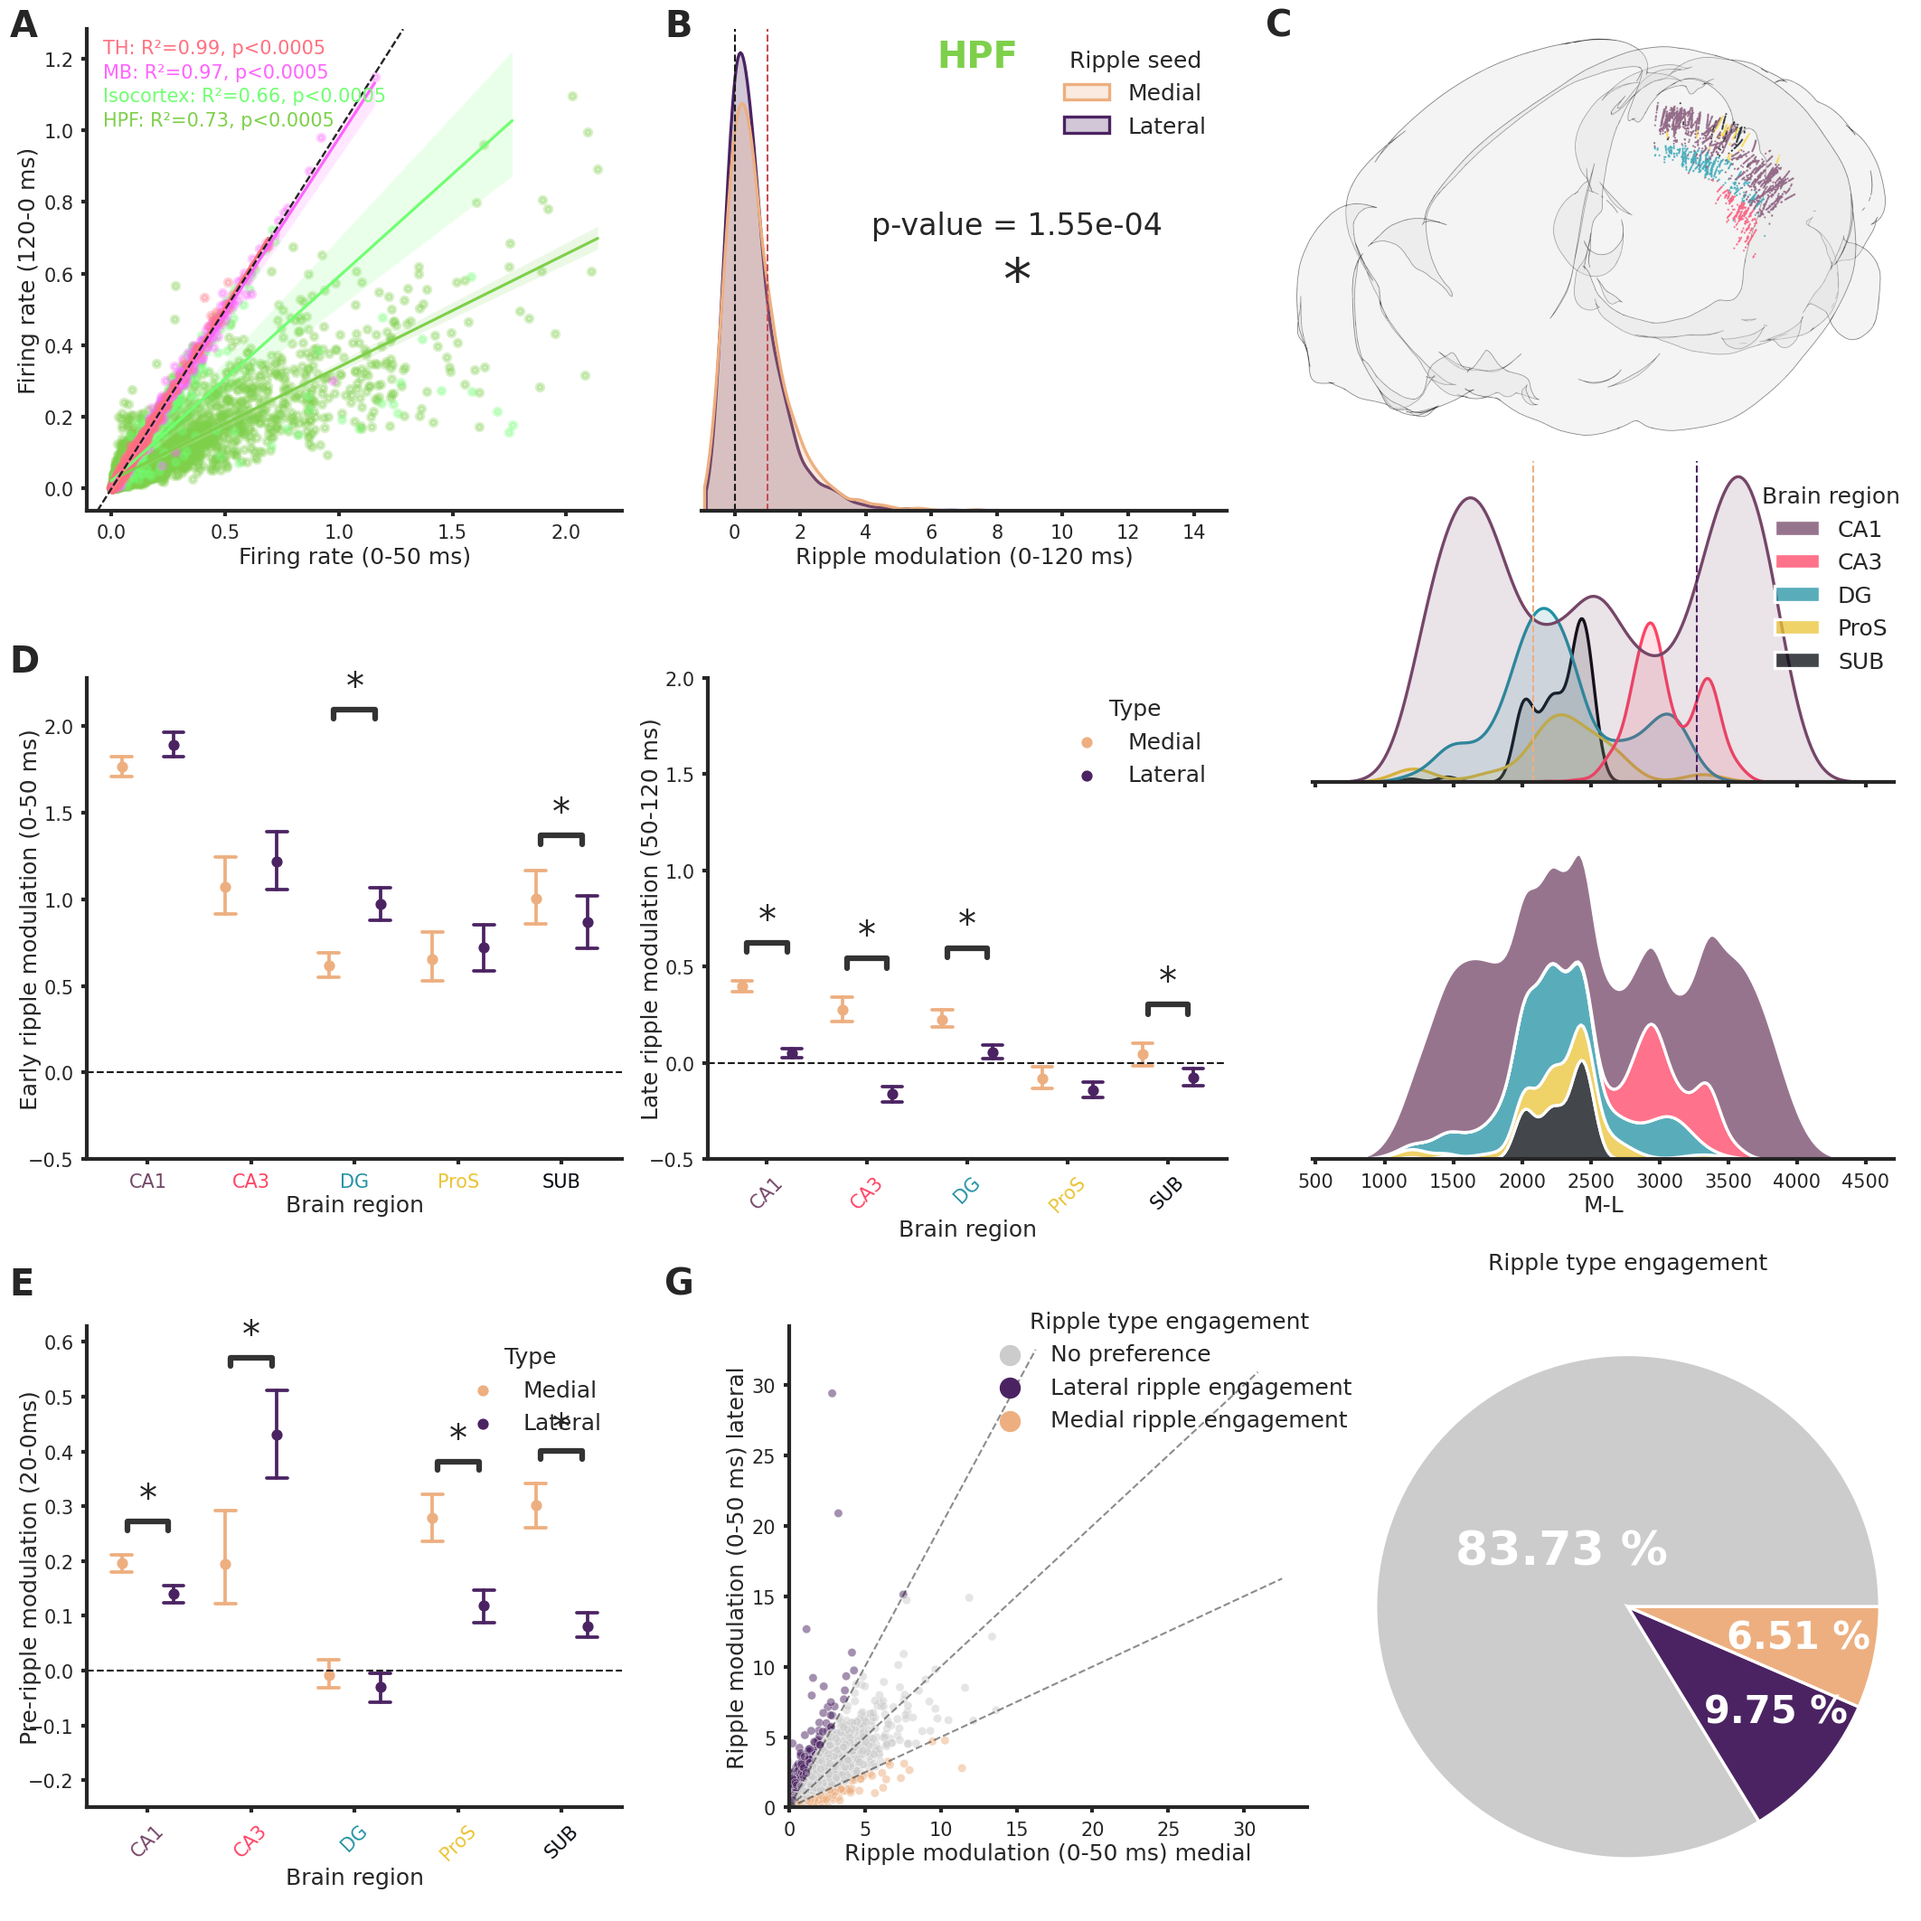
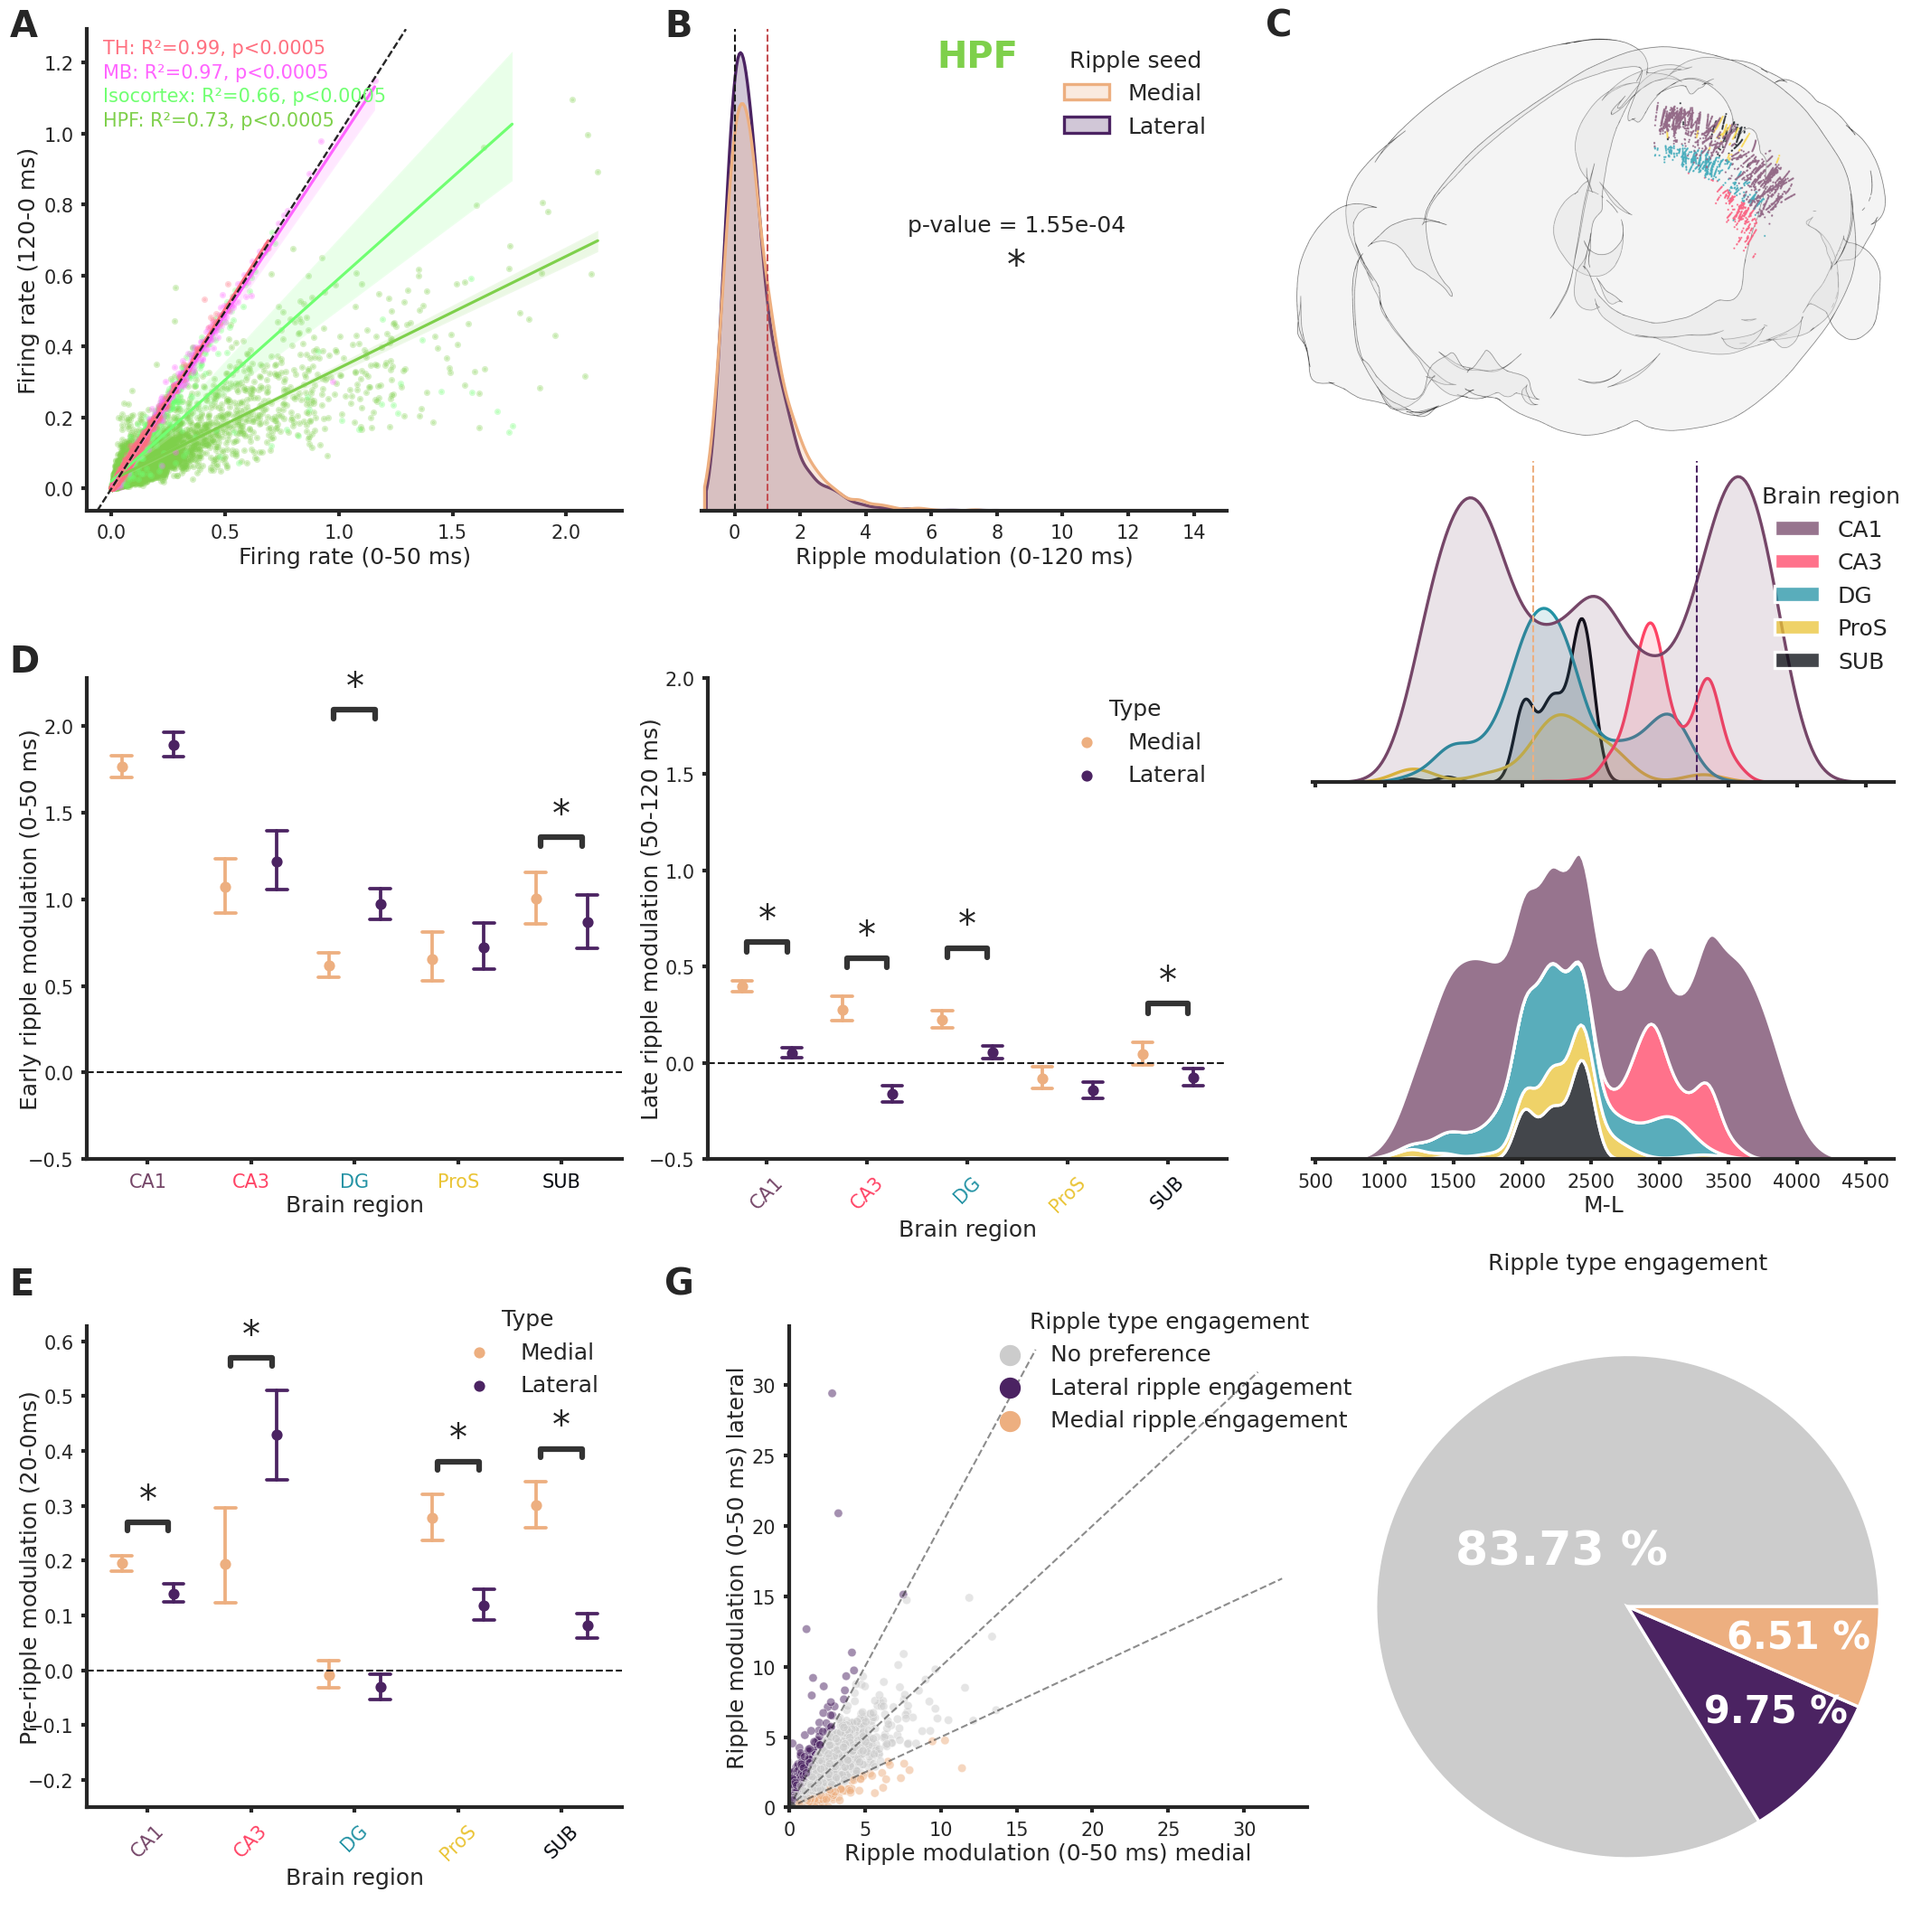
update supplementary figure units, add waveform

diff --git a/Figures/Supplementary/Supplementary_Figure_units_per_hippocampal_section.py b/Figures/Supplementary/Supplementary_Figure_units_per_hippocampal_section.py
@@ -1,13 +1,19 @@
 from Utils.Settings import output_folder_calculations, output_folder_supplementary, var_thr, waveform_PT_ratio_thr, waveform_dur_thr , isi_violations_thr, amplitude_cutoff_thr, presence_ratio_thr, Adapt_for_Nature_style
 from Utils.Utils import Naturize
 import dill
+import pandas as pd
+import numpy as np
 import pingouin as pg
 from scipy.stats import ks_2samp
 import matplotlib.pyplot as plt
 import seaborn as sns
 from Utils.Style import palette_ML
-import pylustrator
 import Utils.Style
+
+
+with open(f'{output_folder_calculations}/HPF_waveforms.pkl', 'rb') as f:
+    exc_lat, exc_med, inh_lat, inh_med, time = dill.load(f)
+
 
 with open(f'{output_folder_calculations}/clusters_features_per_section.pkl', 'rb') as f:
     total_clusters = dill.load(f)
@@ -57,97 +63,107 @@ def plot_distributions(total_units, ax0, ax1, param, legend):
         ax0.get_legend().remove()
         ax1.get_legend().remove()
 
-#pylustrator.start()
 
-fig, ax = plt.subplots(6, 4, figsize=(10,10))
+
+fig, ax = plt.subplots(8, 4, figsize=(10,10))
+
+ax1 = plt.subplot2grid((8, 4), (0, 0), colspan=2, rowspan=2)
+
+ax2 = plt.subplot2grid((8, 4), (0, 2), colspan=2, rowspan=2)
+
+pd.DataFrame(np.vstack(exc_lat), columns=time*1000).mean().plot( color=palette_ML["Lateral"], ax=ax2)
+pd.DataFrame(np.vstack(exc_med), columns=time*1000).mean().plot( color=palette_ML["Medial"], ax=ax2)
+
+pd.DataFrame(np.vstack(inh_lat), columns=time*1000).mean().plot( color=palette_ML["Lateral"], ax=ax1)
+pd.DataFrame(np.vstack(inh_med), columns=time*1000).mean().plot( color=palette_ML["Medial"], ax=ax1)
+
+ax1.set_xlabel("Time (ms)")
+ax2.set_xlabel("Time (ms)")
+
+ax1.set_xlabel("Time (ms)")
+ax2.set_xlabel("Time (ms)")
+
+ax1.set_title("Putative inhibitory")
+ax2.set_title("Putative excitatory")
+
+ax1.text(-0.1, 1.15, "A", transform=ax1.transAxes,
+      fontsize=16, fontweight='bold', va='top', ha='right')
+
+ax2.text(-0.1, 1.15, "B", transform=ax2.transAxes,
+      fontsize=16, fontweight='bold', va='top', ha='right')
+
 param="Waveform duration"
-ax0 = ax[0,0]
-ax1 = ax[0,1]
+ax0 = ax[2,0]
+ax1 = ax[2,1]
 legend = True
 plot_distributions(total_units[total_units["Waveform duration"]<waveform_dur_thr], ax0, ax1, param, legend)
 param="Firing rate"
-ax0 = ax[1,0]
-ax1 = ax[1,1]
-legend = False
-plot_distributions(total_units[(total_units["Waveform duration"]<waveform_dur_thr)&(total_units["presence_ratio"]>presence_ratio_thr)], ax0, ax1, param, legend)
-ax[1,0].set_xlim(-5,50)
-ax[1,1].set_xlim(-5,50)
-param="Waveform amplitude"
-ax0 = ax[2,0]
-ax1 = ax[2,1]
-plot_distributions(total_units[total_units["Waveform duration"]<waveform_dur_thr], ax0, ax1, param, legend)
-param="Waveform repolarization slope"
 ax0 = ax[3,0]
 ax1 = ax[3,1]
-plot_distributions(total_units[total_units["Waveform duration"]<waveform_dur_thr], ax0, ax1, param, legend)
-param="Waveform recovery slope"
+legend = False
+plot_distributions(total_units[(total_units["Waveform duration"]<waveform_dur_thr)&(total_units["presence_ratio"]>presence_ratio_thr)], ax0, ax1, param, legend)
+ax[3,0].set_xlim(-5,50)
+ax[3,1].set_xlim(-5,50)
+param="Waveform amplitude"
 ax0 = ax[4,0]
 ax1 = ax[4,1]
 plot_distributions(total_units[total_units["Waveform duration"]<waveform_dur_thr], ax0, ax1, param, legend)
-ax[4,0].set_xlim(-1,.1)
-ax[4,1].set_xlim(-1,.1)
-param="Waveform PT ratio"
+param="Waveform repolarization slope"
 ax0 = ax[5,0]
 ax1 = ax[5,1]
 plot_distributions(total_units[total_units["Waveform duration"]<waveform_dur_thr], ax0, ax1, param, legend)
-ax[5,0].set_xlim(0,3)
-ax[5,1].set_xlim(0,3)
+param="Waveform recovery slope"
+ax0 = ax[6,0]
+ax1 = ax[6,1]
+plot_distributions(total_units[total_units["Waveform duration"]<waveform_dur_thr], ax0, ax1, param, legend)
+ax[6,0].set_xlim(-1,.1)
+ax[6,1].set_xlim(-1,.1)
+param="Waveform PT ratio"
+ax0 = ax[7,0]
+ax1 = ax[7,1]
+plot_distributions(total_units[total_units["Waveform duration"]<waveform_dur_thr], ax0, ax1, param, legend)
+ax[7,0].set_xlim(0,3)
+ax[7,1].set_xlim(0,3)
 
 param="Waveform duration"
-ax0 = ax[0,2]
-ax1 = ax[0,3]
+ax0 = ax[2,2]
+ax1 = ax[2,3]
 legend = True
 plot_distributions(total_units[total_units["Waveform duration"]>waveform_dur_thr], ax0, ax1, param, legend)
 param="Firing rate"
-ax0 = ax[1,2]
-ax1 = ax[1,3]
-legend = False
-plot_distributions(total_units[(total_units["Waveform duration"]>waveform_dur_thr)&(total_units["presence_ratio"]>presence_ratio_thr)], ax0, ax1, param, legend)
-ax[1,2].set_xlim(-5,20)
-ax[1,3].set_xlim(-5,20)
-param="Waveform amplitude"
-ax0 = ax[2,2]
-ax1 = ax[2,3]
-plot_distributions(total_units[total_units["Waveform duration"]>waveform_dur_thr], ax0, ax1, param, legend)
-param="Waveform repolarization slope"
 ax0 = ax[3,2]
 ax1 = ax[3,3]
-plot_distributions(total_units[total_units["Waveform duration"]>waveform_dur_thr], ax0, ax1, param, legend)
-param="Waveform recovery slope"
+legend = False
+plot_distributions(total_units[(total_units["Waveform duration"]>waveform_dur_thr)&(total_units["presence_ratio"]>presence_ratio_thr)], ax0, ax1, param, legend)
+ax[3,2].set_xlim(-5,20)
+ax[3,3].set_xlim(-5,20)
+param="Waveform amplitude"
 ax0 = ax[4,2]
 ax1 = ax[4,3]
 plot_distributions(total_units[total_units["Waveform duration"]>waveform_dur_thr], ax0, ax1, param, legend)
-ax[4,2].set_xlim(-.5,.1)
-ax[4,3].set_xlim(-.5,.1)
-param="Waveform PT ratio"
+param="Waveform repolarization slope"
 ax0 = ax[5,2]
 ax1 = ax[5,3]
 plot_distributions(total_units[total_units["Waveform duration"]>waveform_dur_thr], ax0, ax1, param, legend)
-ax[5,2].set_xlim(0,1)
-ax[5,3].set_xlim(0,1)
+param="Waveform recovery slope"
+ax0 = ax[6,2]
+ax1 = ax[6,3]
+plot_distributions(total_units[total_units["Waveform duration"]>waveform_dur_thr], ax0, ax1, param, legend)
+ax[6,2].set_xlim(-.5,.1)
+ax[6,3].set_xlim(-.5,.1)
+param="Waveform PT ratio"
+ax0 = ax[7,2]
+ax1 = ax[7,3]
+plot_distributions(total_units[total_units["Waveform duration"]>waveform_dur_thr], ax0, ax1, param, legend)
+ax[7,2].set_xlim(0,1)
+ax[7,3].set_xlim(0,1)
 fig.tight_layout()
 
-#% start: automatic generated code from pylustrator
-plt.figure(1).ax_dict = {ax.get_label(): ax for ax in plt.figure(1).axes}
-import matplotlib as mpl
-plt.figure(1).text(0.5, 0.5, 'New Text', transform=plt.figure(1).transFigure)  # id=plt.figure(1).texts[0].new
-plt.figure(1).texts[0].set_position([0.036000, 0.981250])
-plt.figure(1).texts[0].set_text("A")
-plt.figure(1).texts[0].set_weight("bold")
-plt.figure(1).text(0.5, 0.5, 'New Text', transform=plt.figure(1).transFigure)  # id=plt.figure(1).texts[1].new
-plt.figure(1).texts[1].set_position([0.512000, 0.981250])
-plt.figure(1).texts[1].set_text("B")
-plt.figure(1).texts[1].set_weight("bold")
-plt.figure(1).text(0.5, 0.5, 'New Text', transform=plt.figure(1).transFigure)  # id=plt.figure(1).texts[2].new
-plt.figure(1).texts[2].set_position([0.138189, 0.988976])
-plt.figure(1).texts[2].set_text("Putative inh (waveform duration < 0.4 ms)")
-plt.figure(1).text(0.5, 0.5, 'New Text', transform=plt.figure(1).transFigure)  # id=plt.figure(1).texts[3].new
-plt.figure(1).texts[3].set_position([0.629134, 0.988976])
-plt.figure(1).texts[3].set_text("Putative exc (waveform duration > 0.4 ms)")
-#% end: automatic generated code from pylustrator
 
-plt.show()
+#plt.show()
+
 plt.savefig(f"{output_folder_supplementary}/Supplementary_Figure_13", dpi=300)
+
 
 
 

diff --git a/Figures/Figure_5/Figure_5.py b/Figures/Figure_5/Figure_5.py
@@ -22,8 +22,9 @@ import matplotlib as mpl
 plt.figure(1).set_size_inches(18/2.54, 18/2.54, forward=True)
 plt.figure(1).ax_dict["/alzheimer/Roberto/Allen_Institute/temp/Figure_5_brainrender_cells.png"].set_position([0.662764, 0.768361, 0.322524, 0.215934])
 plt.figure(1).axes[0].set_position([0.365154, 0.733812, 0.273050, 0.250483])
-plt.figure(1).axes[0].texts[0].set_position([0.600000, 0.473120])
-plt.figure(1).axes[0].texts[1].set(position=(0.6000000000000001, 0.5930220150660972), text='p-value = 1.55e-04', ha='center', va='center', fontsize=8.0)
+plt.figure(1).axes[0].texts[0].set(position=(0.6, 0.47312), text='*', ha='center', va='center', fontsize=10.0)
+plt.figure(1).axes[0].texts[0].set_position([0.600000, 0.508943])
+plt.figure(1).axes[0].texts[1].set(position=(0.6000000000000001, 0.5930220150660972), text='p-value = 1.55e-04', ha='center', va='center', fontsize=6.0)
 plt.figure(1).axes[1].set_position([0.045381, 0.733812, 0.278315, 0.250483])
 plt.figure(1).axes[2].set_position([0.683038, 0.592709, 0.302250, 0.166989])
 plt.figure(1).axes[3].set_position([0.683038, 0.396432, 0.302250, 0.166989])
@@ -34,6 +35,7 @@ plt.figure(1).axes[6].set_position([0.368530, 0.396432, 0.269674, 0.250483])
 plt.figure(1).axes[6].yaxis.labelpad = -3.536119
 plt.figure(1).axes[7].set_position([0.045381, 0.059053, 0.278315, 0.250483])
 plt.figure(1).axes[7].yaxis.labelpad = -3.536119
+plt.figure(1).axes[7].get_legend()._set_loc((0.673565, 0.835982))
 plt.figure(1).axes[8].set_position([0.410592, 0.059053, 0.269674, 0.250483])
 plt.figure(1).axes[8].get_legend()._set_loc((0.364736, 0.762754))
 plt.figure(1).axes[9].set_position([0.683038, -0.000317, 0.327780, 0.327780])

diff --git a/Figures/Figure_5/Figure_5_scatter_ripple_modulated.py b/Figures/Figure_5/Figure_5_scatter_ripple_modulated.py
@@ -19,7 +19,7 @@ for area in summary_units_df_sub["Parent brain region"].unique():
 
 g = sns.lmplot(data=summary_units_df_sub, x='Firing rate (0-50 ms)', y='Firing rate (120-0 ms)',
                hue='Parent brain region',
-               palette=palette_parent_areas, scatter_kws=dict(alpha=.3, s=3),
+               palette=palette_parent_areas, scatter_kws=dict(alpha=.3, s=.5),
                hue_order=['HPF', 'Isocortex', 'MB', 'TH'], height=5, aspect=1, legend=False)
 
 yg = {'HPF': .8, 'Isocortex': .85, 'MB': .9, 'TH': .95}
